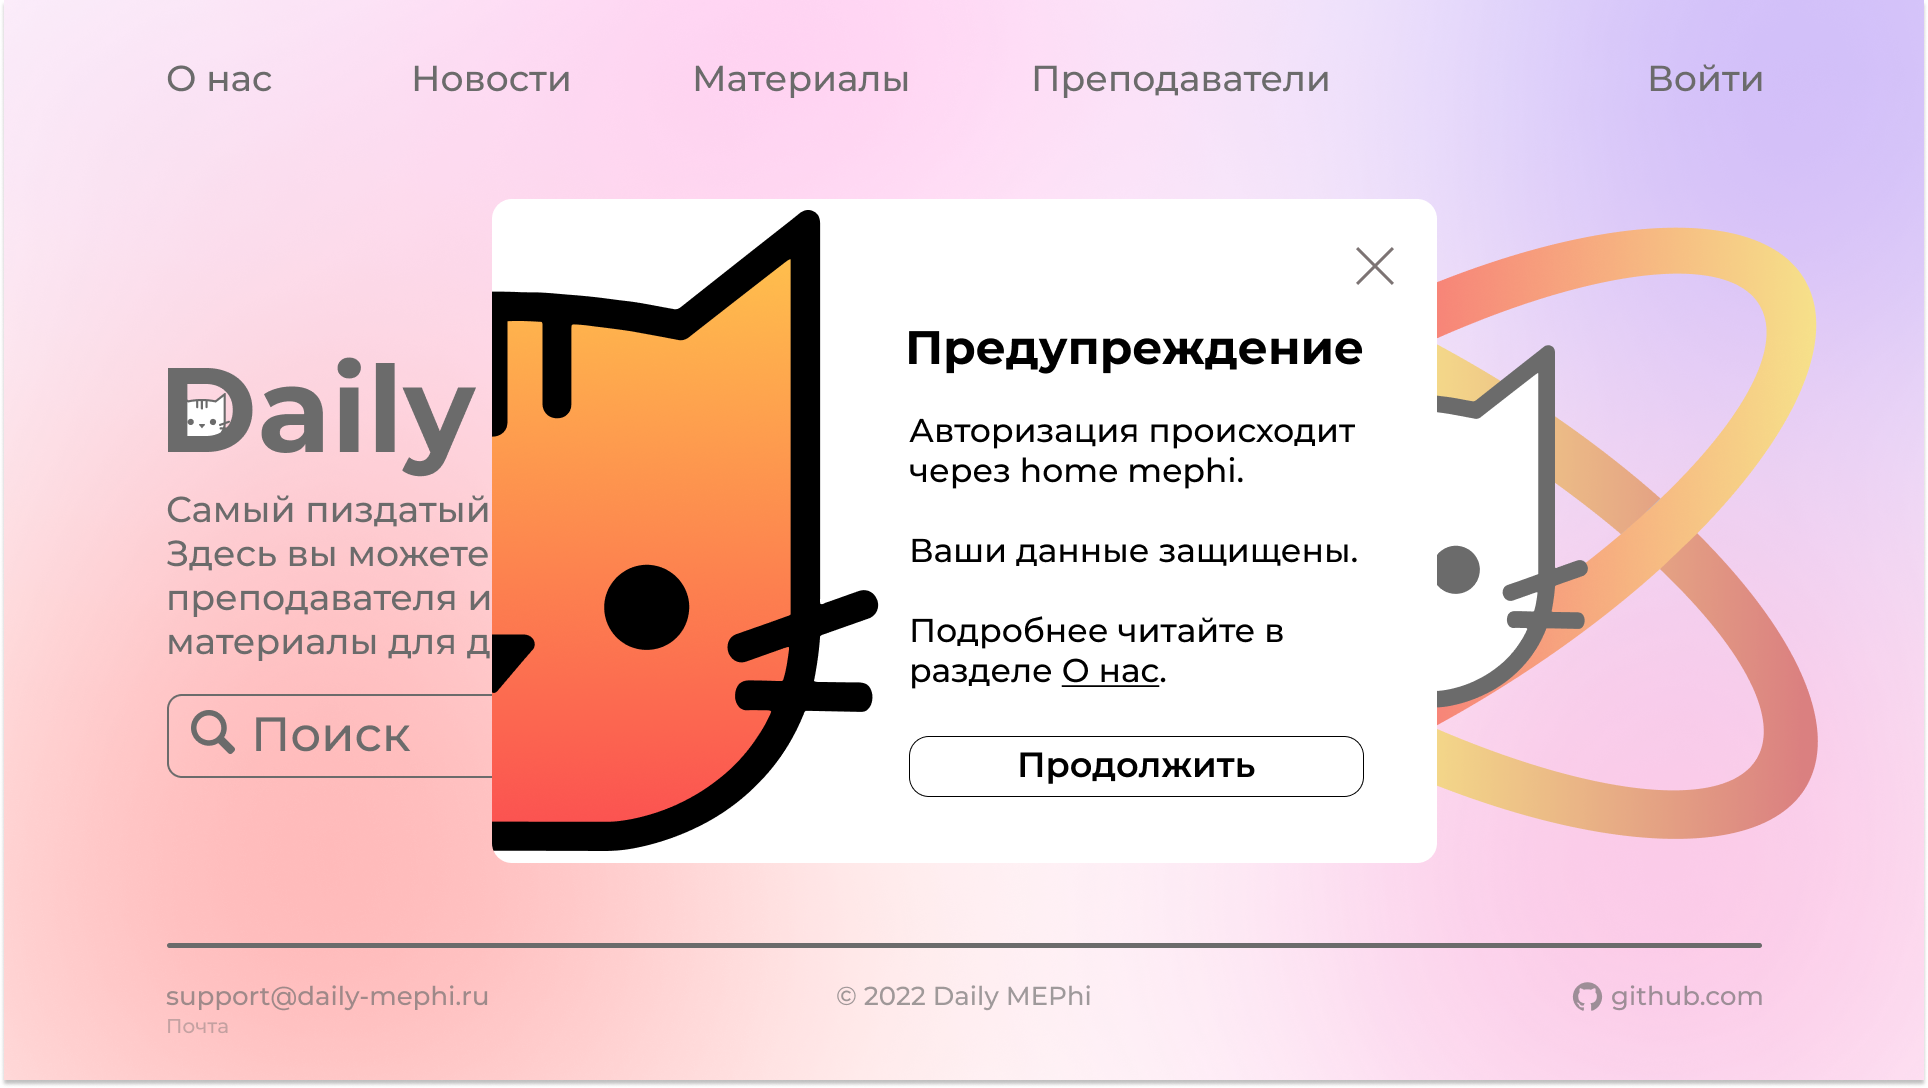
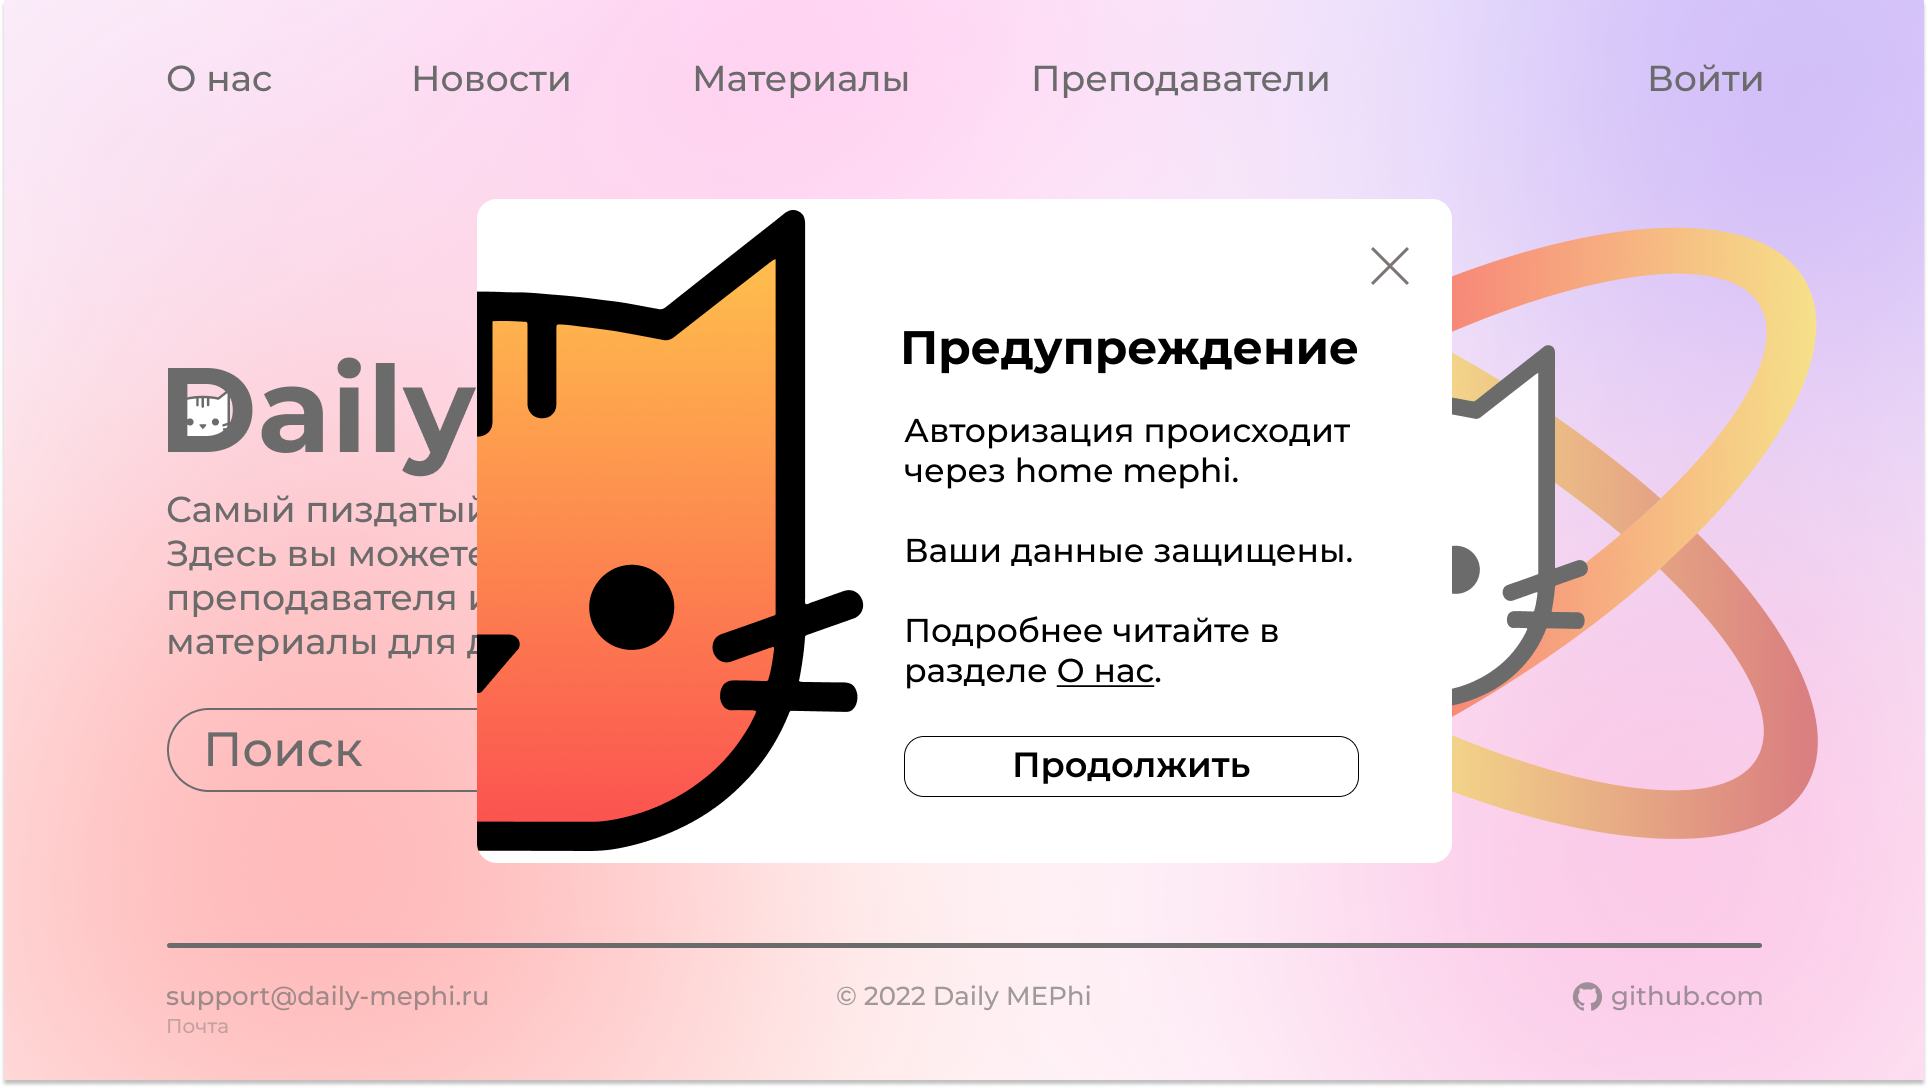
Fully implemented warning

diff --git a/components/warning.tsx b/components/warning.tsx
@@ -1,17 +1,19 @@
 import * as React from 'react';
 import Button from '@mui/material/Button';
-import { styled } from '@mui/material/styles';
+import {styled} from '@mui/material/styles';
 import Dialog from '@mui/material/Dialog';
 import DialogTitle from '@mui/material/DialogTitle';
 import DialogContent from '@mui/material/DialogContent';
 import DialogActions from '@mui/material/DialogActions';
 import IconButton from '@mui/material/IconButton';
-import CloseIcon from '@mui/icons-material/Close';
 import Typography from '@mui/material/Typography';
-
+import Image from "next/image";
+import CloseIcon from '../images/close_icon.svg';
+import WarningCat from '../images/warning_cat.svg'
+import Link from "next/link";
 // https://mui.com/components/dialogs/
 
-const BootstrapDialog = styled(Dialog)(({ theme }) => ({
+const BootstrapDialog = styled(Dialog)(({theme}) => ({
     '& .MuiDialogContent-root': {
         padding: theme.spacing(2),
     },
@@ -32,33 +34,8 @@ export interface DialogProps {
 }
 
 
-const WarningDialogTitle = (props: DialogTitleProps) => {
-    const { children, onClose, ...other } = props;
-
-    return (
-        <DialogTitle sx={{ m: 0, p: 2}} {...other}>
-            {children}
-            {onClose ? (
-                <IconButton
-                    aria-label="close"
-                    onClick={onClose}
-                    sx={{
-                        position: 'absolute',
-                        right: 8,
-                        top: 8,
-                        // color: (theme) => theme.palette.grey[500],
-                    }}
-                >
-                    <CloseIcon />
-                </IconButton>
-            ) : null}
-        </DialogTitle>
-    );
-};
-
-export default function WarningDialog (props: DialogProps) {
-    const { handleClose, opened } = props;
-
+export default function WarningDialog(props: DialogProps) {
+    const {handleClose, opened} = props;
 
     return (
         <>
@@ -66,32 +43,69 @@ export default function WarningDialog (props: DialogProps) {
                 onClose={handleClose}
                 aria-labelledby="customized-dialog-title"
                 open={opened}
-                className="greenBox"
+                PaperProps={{
+                    sx: {
+                        width: '50.5%',
+                        height: '60%',
+                        borderRadius: '25px',
+                        // backgroundColor: "rgba(255, 255, 255, 0.5)",
+                    }
+                }}
+                fullWidth
+                maxWidth='lg'
             >
-                <WarningDialogTitle id="customized-dialog-title" onClose={handleClose}>
-                    Modal title
-                </WarningDialogTitle>
-                <DialogContent>
-                    <Typography gutterBottom>
-                        Cras mattis consectetur purus sit amet fermentum. Cras justo odio,
-                        dapibus ac facilisis in, egestas eget quam. Morbi leo risus, porta ac
-                        consectetur ac, vestibulum at eros.
-                    </Typography>
-                    <Typography gutterBottom>
-                        Praesent commodo cursus magna, vel scelerisque nisl consectetur et.
-                        Vivamus sagittis lacus vel augue laoreet rutrum faucibus dolor auctor.
-                    </Typography>
-                    <Typography gutterBottom>
-                        Aenean lacinia bibendum nulla sed consectetur. Praesent commodo cursus
-                        magna, vel scelerisque nisl consectetur et. Donec sed odio dui. Donec
-                        ullamcorper nulla non metus auctor fringilla.
-                    </Typography>
-                </DialogContent>
-                <DialogActions>
-                    <Button autoFocus onClick={handleClose}>
-                        Save changes
-                    </Button>
-                </DialogActions>
+
+
+                <div className="grid grid-cols-12">
+                    <div className="col-start-1 col-end-6 grid mt-1">
+                        <Image
+                            src={WarningCat}
+                            alt="Warning cat"
+                        />
+                    </div>
+
+                    <div className="col-start-6 col-end-13">
+                        <div className="grid justify-end">
+                            <IconButton
+                                aria-label="close"
+                                onClick={handleClose}
+                                className="w-14 h-14 col-start-13 col-end-13 mr-8 mt-5"
+                            >
+                                <Image
+                                    src={CloseIcon}
+                                    alt="Close icon"
+                                    className="scale-90"
+                                />
+                            </IconButton>
+                        </div>
+
+                        <div className="pl-5 mt-12 w-5/6">
+                            <div className="text-5xl font-bold mb-8">Предупреждение</div>
+                            <div className="grid text-3xl grid-cols-12">
+                                <div className="col-span-12 gap-10 grid mb-16">
+                                    <span>Авторизация происходит через home mephi.</span>
+                                    <span>Ваши данные защищены.</span>
+                                    <div>
+                                        <span>Подробнее читайте в разделе </span>
+                                        <Link href="/">
+                                            <a className="underlining font-semibold">О нас</a>
+                                        </Link>
+                                    </div>
+                                </div>
+                                <div className="col-span-12 h-full rounded-full border-2 border-black">
+                                    <Button autoFocus onClick={handleClose}
+                                            className="w-full rounded-full flex h-13 text-3xl font-bold font-[Montserrat]"
+                                            style={{color: 'black', textTransform: 'none'}}>
+                                        Продолжить
+                                    </Button>
+                                </div>
+                            </div>
+
+                        </div>
+                    </div>
+                </div>
+
+
             </BootstrapDialog>
         </>
     );

diff --git a/components/navbar.tsx b/components/navbar.tsx
@@ -18,7 +18,6 @@ import Button from "@mui/material/Button";
 import WarningDialog from '../components/warning';
 
 
-
 const Navbar = () => {
     const [state, setState] = React.useState({
         opened: false,
@@ -84,27 +83,28 @@ const Navbar = () => {
                         </div>
 
                         <div className="flex underlining">
-                            <Link href="/">
+                            <Link href="/news">
                                 Новости
                             </Link>
                         </div>
                         <div className="flex underlining">
-                            <Link href="/">
+                            <Link href="/materials">
                                 Материалы
                             </Link>
                         </div>
 
                         <div className="flex underlining">
-                            <Link href="/">
+                            <Link href="/tutors">
                                 Преподаватели
                             </Link>
                         </div>
                     </div>
-                    <div className="flex col-start-12 col-end-13 flex flex-wrap justify-end underlining w-fit">
-                        <button onClick={handleClickOpen}>
-                            Войти
-                        </button>
-                    </div>
+
+                    <button onClick={handleClickOpen}
+                            className="flex col-start-12 col-end-13 flex flex-wrap justify-end underlining w-fit outline-0">
+                        Войти
+                    </button>
+
                 </div>
             </nav>
             <WarningDialog handleClose={handleClose} opened={state.warning}/>

diff --git a/pages/_app.tsx b/pages/_app.tsx
@@ -10,7 +10,6 @@ import React, {ReactNode} from "react";
 import {AppPropsType} from "next/dist/shared/lib/utils";
 import Footer from "../components/footer";
 import SEO from "../components/seo";
-// import Header from "../components/header";
 import Background from '../images/bg.svg';
 import Image from "next/image";
 import template from "../images/template2.png";
@@ -32,20 +31,20 @@ function MyApp(
 
     return <SessionProvider session={session}>
         <div className="font-[Montserrat] h-screen grid">
-            {/* <div className={styles.bgWrap}><Image*/}
-            {/*    src={template}*/}
-            {/*    alt="Picture of the author"*/}
-            {/*    quality={100}*/}
-            {/*    objectFit="cover"*/}
-            {/*/></div>*/}
-
-            <div className={styles.bgWrap}><Image
-                src={Background}
+             <div className={styles.bgWrap}><Image
+                src={template}
                 alt="Picture of the author"
                 quality={100}
                 objectFit="cover"
-                layout="fill"
             /></div>
+
+            {/*<div className={styles.bgWrap}><Image*/}
+            {/*    src={Background}*/}
+            {/*    alt="Picture of the author"*/}
+            {/*    quality={100}*/}
+            {/*    objectFit="cover"*/}
+            {/*    layout="fill"*/}
+            {/*/></div>*/}
 
             <Navbar/>
             <Component {...pageProps} />
